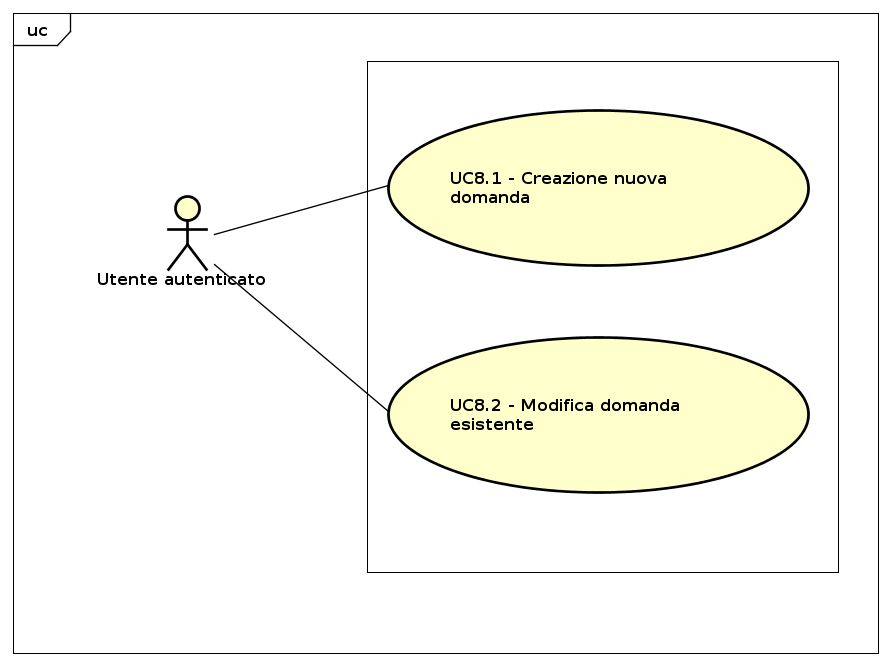
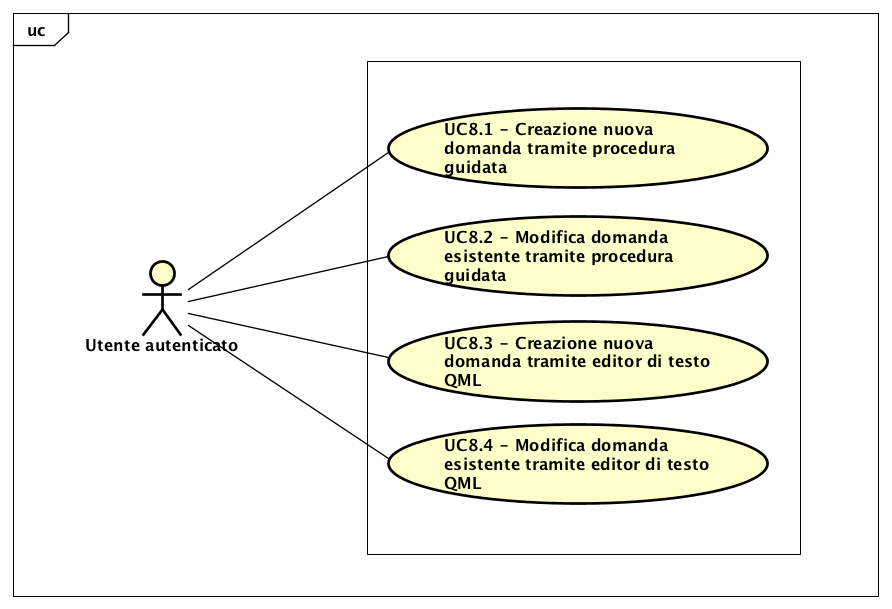
Sistemato UML UC8 e aggiornato diario

diff --git a/RR/AnalisiDeiRequisiti/sezioni/diario.tex b/RR/AnalisiDeiRequisiti/sezioni/diario.tex
@@ -1,40 +1,44 @@
 \newcommand{\modificheuno} 
 {
-	1.0.18 & Creazione di UC13.3 con i suoi sottocasi d'uso e del relativo UML & \specialcell[t] {\SM \\ \Ana} & 2016-02-25
+	1.1.18 & Creazione di UC13.3 con i suoi sottocasi d'uso e del relativo UML & \specialcell[t] {\SM \\ \Ana} & 2016-02-25
 	\\\midrule
-	1.0.17 & Corretto UC9, modificate le precondizioni dei casi d'uso e tutti i diagrammi & \specialcell[t] {\GR \\ \Ana} & 2016-02-24
+	1.1.17 & Corretto UC9, modificate le precondizioni dei casi d'uso e tutti i diagrammi & \specialcell[t] {\GR \\ \Ana} & 2016-02-24
 	\\\midrule
-	1.0.16 & Corretti UC2 e UC12, modificate le precondizioni dei casi d'uso e tutti i diagrammi & \specialcell[t] {\MV \\ \Ana} & 2016-02-24
+	1.1.16 & Corretti UC2 e UC12, modificate le precondizioni dei casi d'uso e tutti i diagrammi & \specialcell[t] {\MV \\ \Ana} & 2016-02-24
 	\\\midrule
-	1.0.15 & Modificate le precondizioni e gli UML del UC5 e UC13  & \specialcell[t]{\SM \\ \Ana} & 2016-02-24
+	1.1.15 & Modificate le precondizioni e gli UML del UC5 e UC13  & \specialcell[t]{\SM \\ \Ana} & 2016-02-24
 	\\\midrule
-	1.0.14 & Inserita nuova sezione riguardante gli attori dell'applicazione & \specialcell[t]{\AF \\ \Ana} & 2016-02-23
+	1.1.14 & Inserita nuova sezione riguardante gli attori dell'applicazione & \specialcell[t]{\AF \\ \Ana} & 2016-02-23
 	\\\midrule
-	1.0.13 & Corretto UC11, inserita condizione per l'estensione & \specialcell[t]{\AF \\ \Ana} & 2016-02-23
+	1.1.13 & Corretto UC11, inserita condizione per l'estensione & \specialcell[t]{\AF \\ \Ana} & 2016-02-23
 	\\\midrule
-	1.0.12 & Corretto UC8.2, aggiornato casi d'uso rimuovendo l'errore di caso d'uso modifica dentro caso d'uso di visualizzazione/selezione. Aggiornati tutti diagrammi UML &\specialcell[t]{\AF \\ \Ana} & 2016-02-23
+	1.1.12 & Corretto UC8.2, aggiornato casi d'uso rimuovendo l'errore di caso d'uso modifica dentro caso d'uso di visualizzazione/selezione. Aggiornati tutti diagrammi UML &\specialcell[t]{\AF \\ \Ana} & 2016-02-23
 	\\\midrule
-	1.0.11 & Corretto UC1, aggiornato nuovi casi d'uso dei vari tipi di login & \specialcell[t]{\AF \\ \Ana} & 2016-02-23
+	1.1.11 & Corretto UC1, aggiornato nuovi casi d'uso dei vari tipi di login & \specialcell[t]{\AF \\ \Ana} & 2016-02-23
 	\\\midrule
-	1.0.10 & Corretto UC3, tolti i sotto casi d'uso e resi tutti allo stesso livello (UC14, UC15, UC16, UC17) & \specialcell[t]{\GN \\ \Ana} & 2016-02-23
+	1.1.10 & Corretto UC3, tolti i sotto casi d'uso e resi tutti allo stesso livello (UC14, UC15, UC16, UC17) & \specialcell[t]{\GN \\ \Ana} & 2016-02-23
 	\\\midrule
-	1.0.9 & Corretto in UC8.1.3 e nei suoi sotto-casi d'uso gli inserimenti che contengono al suo interno un sotto caso d’uso di eliminazione & \specialcell[t]{\FB \\ \Ana} & 2016-02-21
+	1.1.9 & Corretto in UC8.1.3 e nei suoi sotto-casi d'uso gli inserimenti che contengono al suo interno un sotto caso d’uso di eliminazione & \specialcell[t]{\FB \\ \Ana} & 2016-02-21
 	\\\midrule
-	1.0.8 & Corretto UML UC9.3, sostituita inclusione con estensione  & \specialcell[t]{\GR \\ \Ana} & 2016-02-20
+	1.1.8 & Corretto UML UC9.3, sostituita inclusione con estensione  & \specialcell[t]{\GR \\ \Ana} & 2016-02-20
 	\\\midrule
-	1.0.7 & Aggiunta in Appendice una tabella in cui vengono elencati i browser supportati  & \specialcell[t]{\GR \\ \Ana} & 2016-02-19
+	1.1.7 & Aggiunta in Appendice una tabella in cui vengono elencati i browser supportati  & \specialcell[t]{\GR \\ \Ana} & 2016-02-19
 	\\\midrule
-	1.0.6 &	Modificato UC5.8: da "Cambio tipologia account" in "Richiesta cambio tipologia account"   & \specialcell[t]{\SM \\ \Ana} & 2016-02-19
+	1.1.6 &	Modificato UC5.8: da "Cambio tipologia account" in "Richiesta cambio tipologia account"   & \specialcell[t]{\SM \\ \Ana} & 2016-02-19
 	\\\midrule
-	1.0.5 &	Inserito nuovo caso d'uso UC5.7 per la visualizzazione dell'errore nella conferma alle modifiche dei campi dati; & \specialcell[t]{\SM \\ \Ana} & 2016-02-19
+	1.1.5 &	Inserito nuovo caso d'uso UC5.7 per la visualizzazione dell'errore nella conferma alle modifiche dei campi dati; & \specialcell[t]{\SM \\ \Ana} & 2016-02-19
 	\\\midrule
-	1.0.4 &	Inserito nuovo caso d'uso UC5.6 per confermare le modifiche ai campi dati; & \specialcell[t]{\SM \\ \Ana} & 2016-02-19
+	1.1.4 &	Inserito nuovo caso d'uso UC5.6 per confermare le modifiche ai campi dati; & \specialcell[t]{\SM \\ \Ana} & 2016-02-19
 	\\\midrule
-	1.0.3 & Modifiche effettuate a UC5: eliminata la possibilità di modificare l'username; eliminati i casi d'uso di conferma a ogni modifica di un campo dati; & \specialcell[t]{\SM \\ \Ana} & 2016-02-19
+	1.1.3 & Modifiche effettuate a UC5: eliminata la possibilità di modificare l'username; eliminati i casi d'uso di conferma a ogni modifica di un campo dati; & \specialcell[t]{\SM \\ \Ana} & 2016-02-19
 	\\\midrule
-	1.0.2 & Correzione UML UC11.5, sostituita inclusione con estensione  & \specialcell[t]{\AF \\ \Ana} & 2016-02-19
+	1.1.2 & Correzione UML UC11.5, sostituita inclusione con estensione  & \specialcell[t]{\AF \\ \Ana} & 2016-02-19
 	\\\midrule
-	1.0.1 & Corretto errore "l'utente può seleziona" in UC11.5 a p.98  & \specialcell[t]{\AF \\ \Ana} & 2016-02-19
+	1.1.1 & Corretto errore "l'utente può seleziona" in UC11.5 a p.98  & \specialcell[t]{\AF \\ \Ana} & 2016-02-19
+	\\\midrule	
+	1.1.0 & Verifica del documento & \specialcell[t]{\SM \\ \Res} & 2016-01-20
+	\\\midrule	
+	1.0.1 & Aggiunta sezione inserimento e modifica domande tramite editor QML (UC8.3 e UC8.4), vedere verbale interno5 & \specialcell[t]{\GN \\ \Res} & 2016-01-20
 	\\\midrule	
 	1.0.0 & Approvazione del documento & \specialcell[t]{\GN \\ \Res} & 2016-01-20
 	\\\midrule
